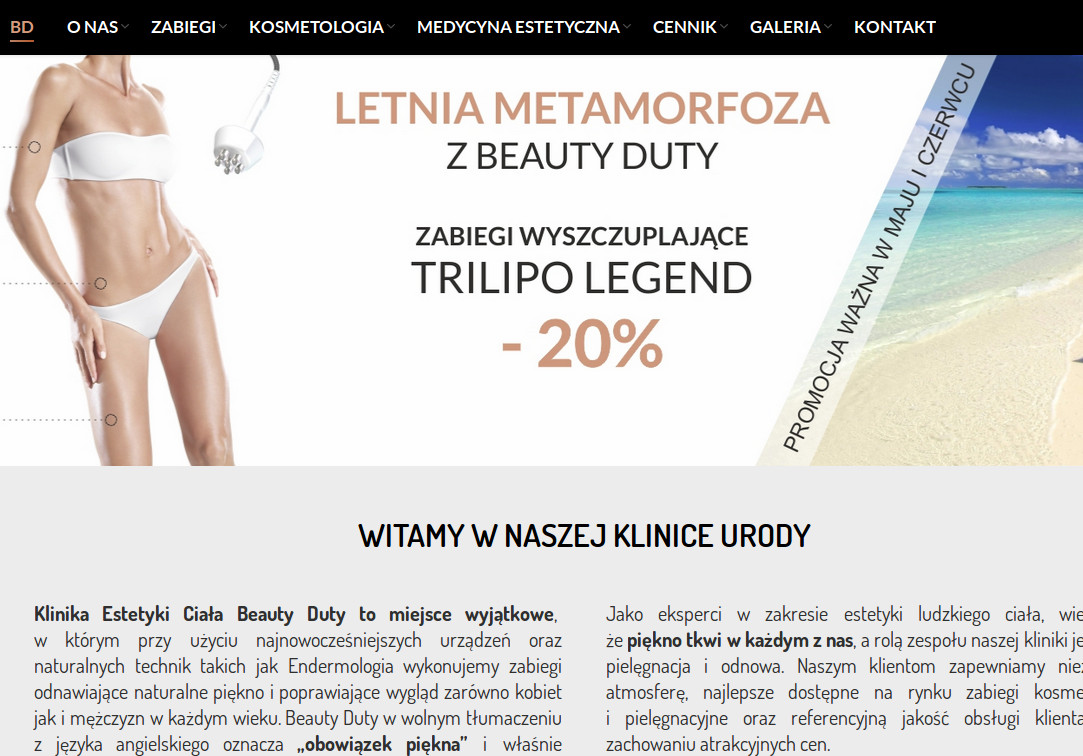
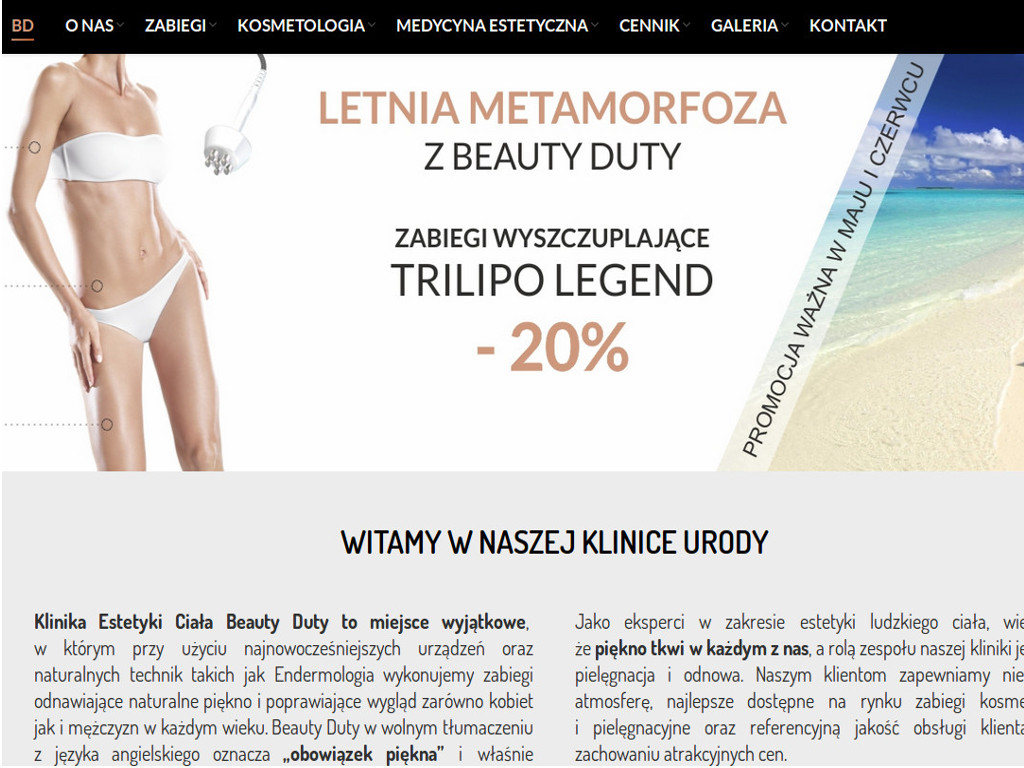
Improve bd project page

diff --git a/projects/bd.html b/projects/bd.html
@@ -39,6 +39,7 @@
             <li data-target="#carousel-example-generic" data-slide-to="0" class="active"></li>
             <li data-target="#carousel-example-generic" data-slide-to="1"></li>
             <li data-target="#carousel-example-generic" data-slide-to="2"></li>
+            <li data-target="#carousel-example-generic" data-slide-to="3"></li>
           </ol>
         
           <!-- Wrapper for slides -->
@@ -51,6 +52,9 @@
             </div>
             <div class="item">
               <img src="images/bd5.jpg" alt="" />
+            </div>
+            <div class="item">
+              <img src="images/bd.jpg" alt="" />
             </div>
           </div>
         
